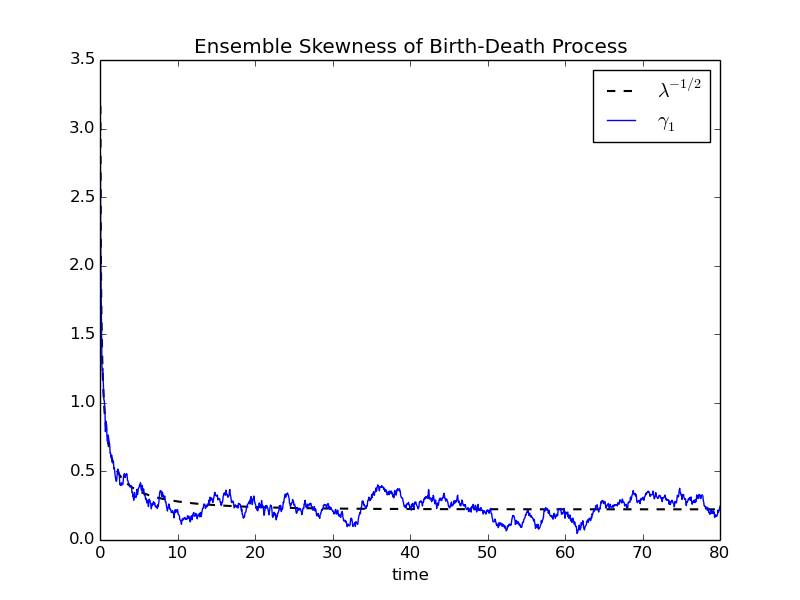
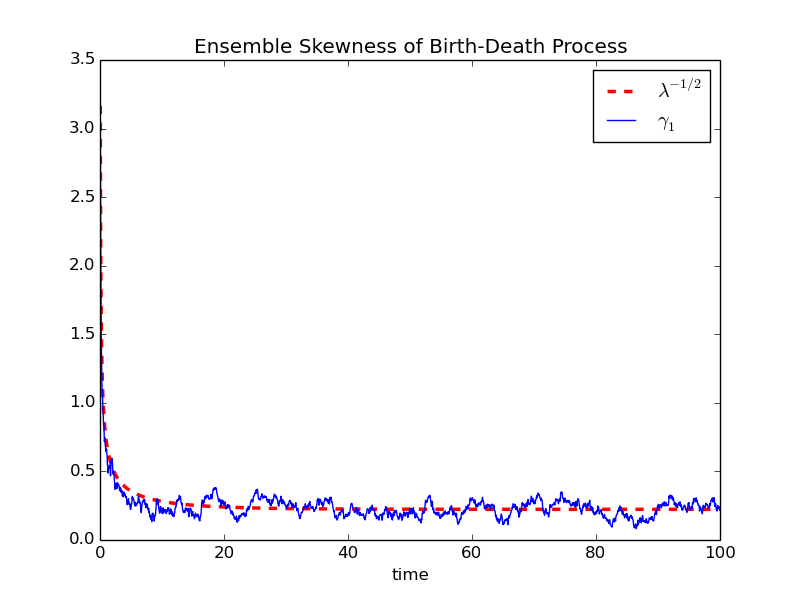
Updated time-average section so that it is correct. Updated plots to make prediction line more visible.

diff --git a/gill.py b/gill.py
@@ -25,7 +25,7 @@ def probDensity(x,t,x0,kb,kd):
 nEnsemble = 1000
 
 dt = 0.05;
-tstop = 80;
+tstop = 100;
 v = [ 1.0, -1.0]
 x0 = 0.0
 kb = 2.0
@@ -123,7 +123,7 @@ for j in jlist:
     tAutoCorr.append(t1+tau)
 
 
-plt.plot(tAutoCorr, cXX, '--k', label='Predicted', linewidth=1.5)
+plt.plot(tAutoCorr, cXX, '--r', label='Predicted', linewidth=2.5)
 plt.plot(tAutoCorr, cAutoCorr, label='Simulated')
 plt.legend(loc=1)
 plt.title('Auto-Correlation for Birth-Death Process')
@@ -246,8 +246,8 @@ plt.show()
 
 
 
-#### PLOTS for part (iii) ####
-plt.plot(tEnsemble,l, '--k', label='$\lambda$', linewidth=1.5)
+# #### PLOTS for part (iii) ####
+plt.plot(tEnsemble,l, '--r', label='$\lambda$', linewidth=2.5)
 plt.plot(tEnsemble,xMean,label='$\mu$')
 plt.plot(tEnsemble,xVar,label='$\sigma^2$')
 plt.legend(loc=4)
@@ -258,38 +258,54 @@ plt.show()
 
 l = [ y**(-0.5) for y in l]
 
-plt.plot(tEnsemble,l, '--k', label='$\lambda^{-1/2}$', linewidth=1.5)
+plt.plot(tEnsemble,l, '--r', label='$\lambda^{-1/2}$', linewidth=2.5)
 plt.plot(tEnsemble,xSkew,label='$\gamma_1$')
 plt.title('Ensemble Skewness of Birth-Death Process')
 plt.xlabel('time')
 plt.legend(loc=1)
 plt.savefig('results2.png')
 plt.show()
+#
+# plt.plot(tEnsemble,xEnsemble[0])
+# plt.plot(tEnsemble,xEnsemble[nEnsemble-1])
+# plt.plot(tEnsemble,xEnsemble[int(nEnsemble/4)])
+# plt.plot(tEnsemble,xEnsemble[nEnsemble-int(nEnsemble/4)])
+# plt.xlim([0,tstop])
+# plt.title('Sample Trajectories')
+# plt.xlabel('time')
+# plt.ylabel('Population')
+# plt.savefig('results3.png')
+# plt.show()
+# #### PLOTS for part (iii) END ####
 
-plt.plot(tEnsemble,xEnsemble[0])
-plt.plot(tEnsemble,xEnsemble[nEnsemble-1])
-plt.plot(tEnsemble,xEnsemble[int(nEnsemble/4)])
-plt.plot(tEnsemble,xEnsemble[nEnsemble-int(nEnsemble/4)])
-plt.xlim([0,tstop])
-plt.title('Sample Trajectories')
-plt.xlabel('time')
-plt.ylabel('Population')
-plt.savefig('results3.png')
-plt.show()
-#### PLOTS for part (iii) END ####
 
 
-
-# #### PLOTS for part (vi) ####
-# b = [];
-# for i in range(len(xEnsemble)):
-#     b.append(np.mean(xEnsemble[i]))
-# plt.hist(b);
-# plt.xlabel('Time-averaged Population')
-# plt.title('Histogram of Time-Averages of all Trajectories')
+# #### part (vi) time averaging ####
+# xlist = [];
+# tlist = [];
+# tmin = 10/kd;
+# # find where to start time averaging
+# for i in range(len(tEnsemble)):
+#     if tmin <= tEnsemble[i]:
+#         break
+# # pick data points for averaging
+# n = int((1.0/kd)/dt);
+# for j in range(i,len(tEnsemble),n):
+#     tlist.append(tEnsemble[j])
+#     xlist.append(xEnsemble[0][j])
+#
+# tAverage = np.mean(xlist)
+# sTitle = 'Time-Averaging over a Single Trajectory, %.2f' %tAverage
+# plt.plot(tEnsemble,xEnsemble[0],label='Trajectory')
+# plt.plot(tlist,xlist,'ro',label='Sampled Points')
+# plt.title(sTitle)
+# plt.legend()
+# plt.xlabel('time')
+# plt.ylabel('population')
+# plt.xlim([min(tlist),max(tlist)])
 # plt.savefig('timeAverage.png')
 # plt.show()
-# #### PLOTS for part (vi) ####
+# #### part (vi) time averaging ####
 
 
 

diff --git a/assignment/ps3.md b/assignment/ps3.md
@@ -77,7 +77,11 @@ The predicted analytical result agrees very well with the simulations!
 
 ## (vi) Time-averaging vs. Ensemble-averaging
 
-I did not need to modify my code since to calculate the time-average of a trajectory since my implementation already stores the time trajectory of each ensemble member. Once the simulation is complete we can pick an ensemble member and calculate the time average. Picking a random trajectory we see that the average population is approximately 20 which is equal to $k_b/k_d$, the ensemble average. As expected, the time-average is equal to the ensemble average.
+In order to verify whether time-averaging is equal to ensemble-averaging the system needs to be in steady-state. As we have seen previously, steady-state is achieved for times much large than the characteristic time-scale $1/k_d$, where the ensemble average is $\lambda = k_b/k_d=20$. When time-averaging it is also important to ensure that the points on the trajectory are spaced far enough apart such that they are uncorrelated ($\Delta t>1/k_d$).
+
+![](timeAverage.png)
+
+We see that the simulated time average is very much in agreement with the ensemble average! In order to compute this the code had to modified in order to pick a single trajectory and sample its population at large time at every $\Delta t$ time steps. 
 
 ## (vii) First-Passage Time
 
